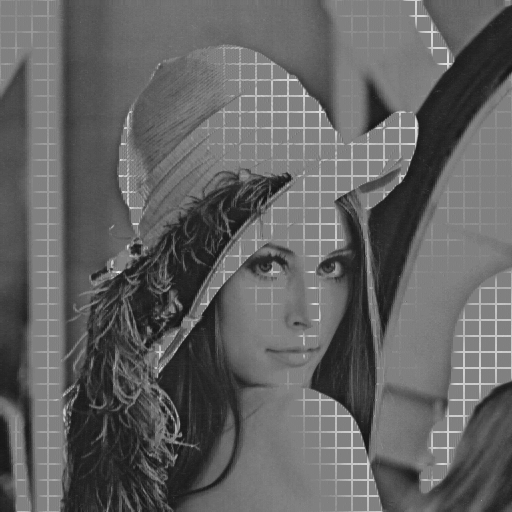
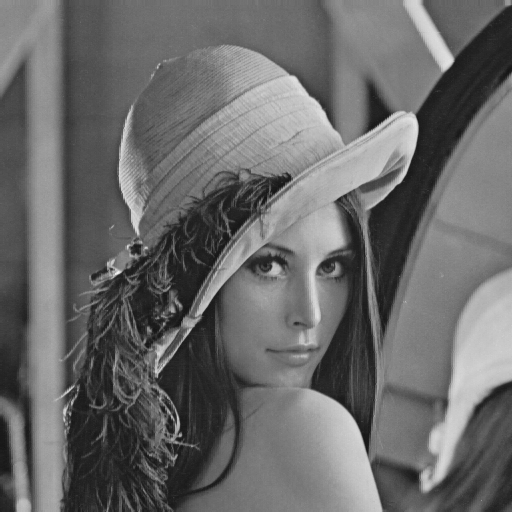
解决了像素相加结果超出uint8范围而引起的错误问题

diff --git a/Embedding.m b/Embedding.m
@@ -36,7 +36,7 @@ sum = 0; %calculate the number of elements in EN1 at present
 num = 0; %store the size of P
 for i = x+1 : 1 : x+blocksize-2
     for j = y+1 : 2 : y+blocksize-2
-        l = floor((origin(i,j)+origin(i,j+1))/2);
+        l = floor(double(uint16(origin(i,j))+uint16(origin(i,j+1)))/2);
         h = double(origin(i,j)-origin(i,j+1));
         min = 2*(255-l);
         b = 2*l+1;
@@ -113,12 +113,16 @@ bits = Encode(bits);
 [~,len3] = size(bits);
 data(len1+len2+1:len1+len2+len3) = bits(1:len3);
 no=1; %means the index of data to embed
+
+if x==81 &&y==49
+    h=1;
+end
 for i = x+1 : 1 : x+blocksize-2
     for j = y+1 : 2 : y+blocksize-2
         if SORT(i,j) == 0
             continue;
         end
-        l = floor((origin(i,j)+origin(i,j+1))/2);
+        l = floor(double(uint16(origin(i,j))+uint16(origin(i,j+1)))/2);
         h = double(origin(i,j)-origin(i,j+1));
         if SORT(i,j) == 1 %expandable
             hh = 2*h;

diff --git a/main.m b/main.m
@@ -17,20 +17,16 @@ for i = 1 : m
         t = t+1;
     end 
 end
+
 embed_image = SaveSpace( origin , blocksize , MSB , count);
 EnImage = Encipher( embed_image , key ); %encipher
 AjImage = Adjustment( EnImage , blocksize , values , MSB);
 DeImage = Encipher( AjImage , key ); %decipher
 ReImage = Recovery( DeImage , blocksize , MSB );
 
-% subplot(1,3,1);
-% imshow(origin);
-% title('original image');
-% subplot(1,3,2);
-% imshow(AjImage);
-% title('after adjustment');
- imwrite(AjImage,'result.png','png');
-% subplot(1,3,3);
-% imshow(ReImage);
- imwrite(ReImage,'recover.png','png');
+imwrite(AjImage,'result.png','png');
+imwrite(ReImage,'recover.png','png');
+
+origin(1:16,1:16)
+ReImage(1:16,1:16)
 

diff --git a/SaveSpace.m b/SaveSpace.m
@@ -31,7 +31,7 @@ for i = 1 : m
         
         for p = x+1 : 1 : x+blocksize-2
             for q = y+1 : 2 : y+blocksize-2
-                l = floor((embed_image(p,q)+embed_image(p,q+1))/2);
+                l = floor(double(uint16(embed_image(p,q))+uint16(embed_image(p,q+1)))/2);
                 h = double(embed_image(p,q)-embed_image(p,q+1));
                 min = 2*(255-l);
                 b = 2*l+1;

diff --git a/Extraction.m b/Extraction.m
@@ -19,7 +19,7 @@ infono = flag+1;%the index of LSB
 count=0;
 for i = x+1: 1 : x+blocksize-2
     for j = y+1: 2 : y+blocksize-2
-        l = floor((origin(i,j)+origin(i,j+1))/2);
+        l = floor(double(uint16(origin(i,j))+uint16(origin(i,j+1)))/2);
         hh = double(origin(i,j)-origin(i,j+1));
         t = (i-x-1)*((blocksize-2)/2)+(j-y+1)/2;
         min = 2*(255-l);
